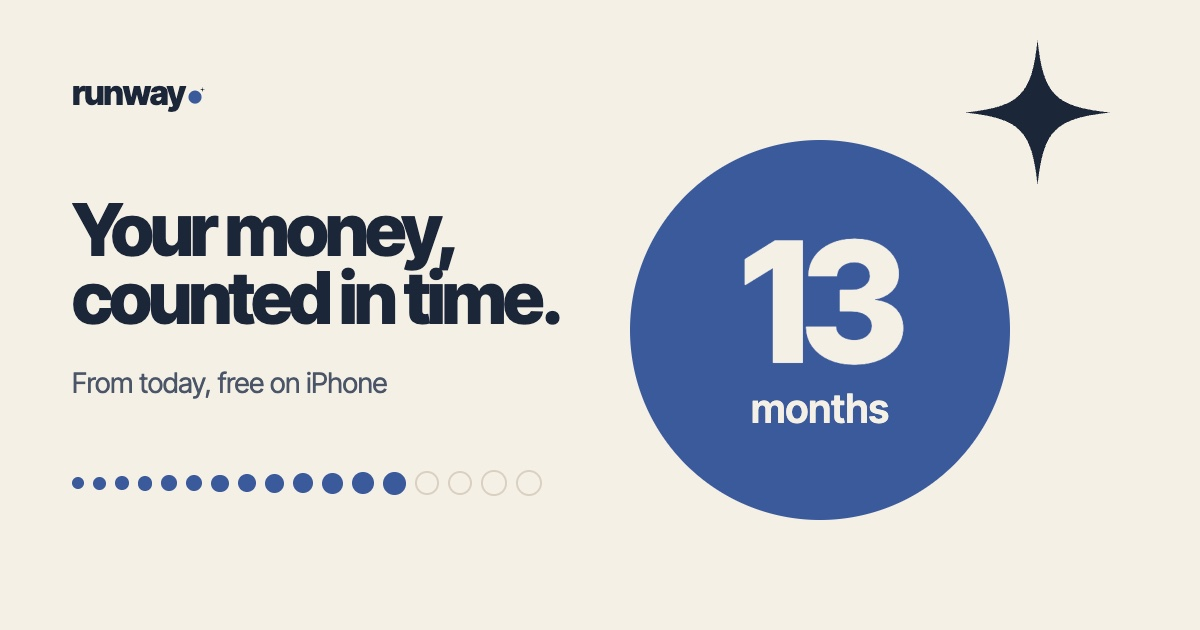
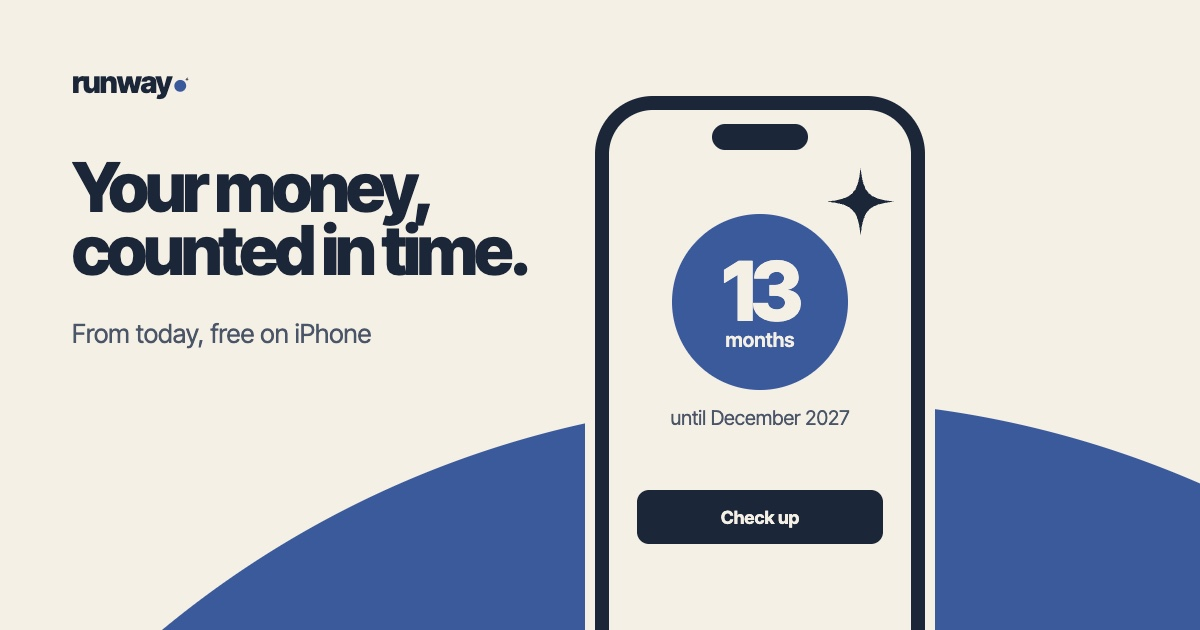
feat(site): the link preview shows the app on a phone rising out of a blue horizon
A phone shows the app's home, the runway circle reading 13 months with
its star and the Check up button, standing up out of a vast blue circle
that rises from the bottom edge. The headline and the price sit beside
it on paper.

diff --git a/privacy/index.html b/privacy/index.html
@@ -23,7 +23,7 @@
     <meta property="og:image:height" content="630" />
     <meta
       property="og:image:alt"
-      content="Financial Runway: the headline Your money, counted in time, beside a large blue circle reading 13 months with the app&#39;s star, and a row of month circles, thirteen of them filled."
+      content="Financial Runway: the headline Your money, counted in time, beside a phone showing the app&#39;s home, a blue circle reading 13 months with its star and a Check up button, rising out of a blue horizon."
     />
     <meta name="twitter:card" content="summary_large_image" />
     <link rel="icon" type="image/png" sizes="180x180" href="../assets/icon-180.png" />

diff --git a/support/index.html b/support/index.html
@@ -20,7 +20,7 @@
     <meta property="og:image:height" content="630" />
     <meta
       property="og:image:alt"
-      content="Financial Runway: the headline Your money, counted in time, beside a large blue circle reading 13 months with the app&#39;s star, and a row of month circles, thirteen of them filled."
+      content="Financial Runway: the headline Your money, counted in time, beside a phone showing the app&#39;s home, a blue circle reading 13 months with its star and a Check up button, rising out of a blue horizon."
     />
     <meta name="twitter:card" content="summary_large_image" />
     <link rel="icon" type="image/png" sizes="180x180" href="../assets/icon-180.png" />

diff --git a/index.html b/index.html
@@ -23,7 +23,7 @@
     <meta property="og:image:height" content="630" />
     <meta
       property="og:image:alt"
-      content="Financial Runway: the headline Your money, counted in time, beside a large blue circle reading 13 months with the app&#39;s star, and a row of month circles, thirteen of them filled."
+      content="Financial Runway: the headline Your money, counted in time, beside a phone showing the app&#39;s home, a blue circle reading 13 months with its star and a Check up button, rising out of a blue horizon."
     />
     <meta name="twitter:card" content="summary_large_image" />
     <meta name="apple-itunes-app" content="app-id=6778675088" />
